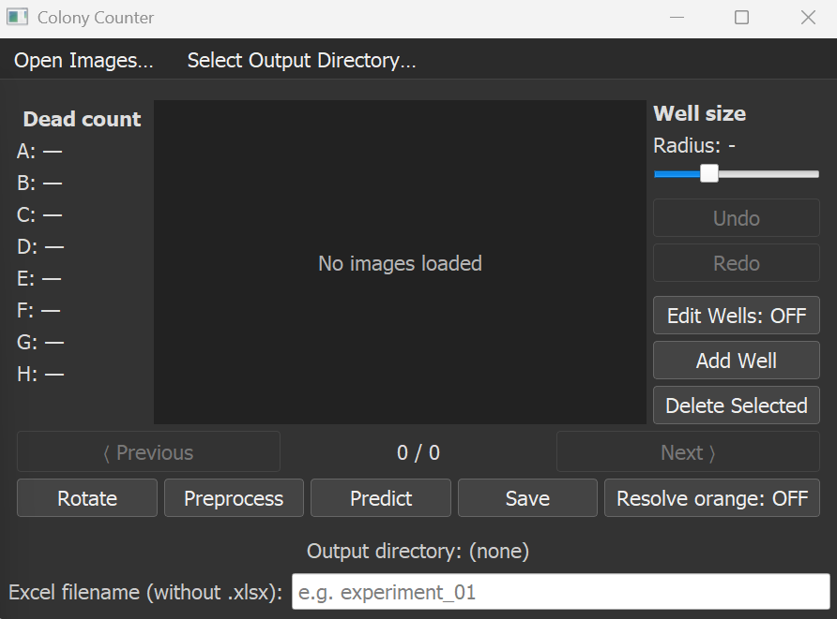
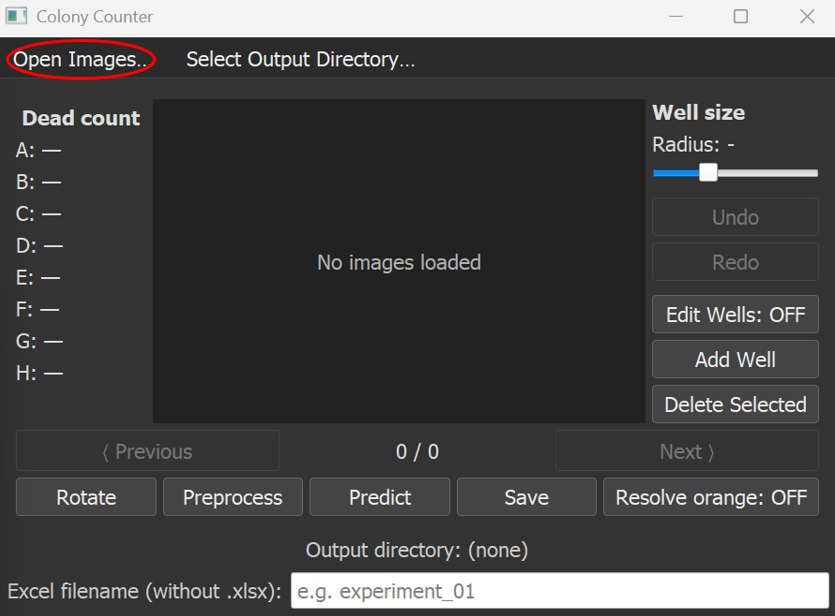
last commit?

diff --git a/README.md b/README.md
@@ -33,29 +33,80 @@ For windows: Click on ColonyCounter-windows.exe to start the download.
 1. When running for the first time the following appears. First click on "More info", then select "Run Anyway"
 ![run-windows](data/images_readme/run_windows.png)
 
-2. The following window appears. It can be resized like any other windows program
+2. The following window appears. It can be resized like any other windows program. Now click on Open Images to open the images (shocking right)
 ![colony_counter](data/images_readme/colony_counter.png)
+
+3. Select the images by simply clicking on them. To select multiple hold ctrl while selecting. Then click on "open".
+![select_images](data/images_readme/select_images.png)
+
+4. You can skip throug the images by clicking "Next" and "Previous". Importantly, images should be rotated (by clicking "Rotate") such that they appear in the same orientation as here
+![next_previous_rotate](data/images_readme/next_previous_rotate.png)
+
+5. Click on "Preprocess"
+![preprocess](data/images_readme/preprocess.png)
+
+6. The following view appears. Skip through the images ("Next" and "Previous") to identify wrongly identified wells. Here in row E some wells are not identified correctly.
+To change this, click on "Edit Wells: OFF" such that it switches to "On". 
+![switch_on](data/images_readme/switch_on.png)
+
+7. To delete wells, select the well (it turns black) and then click on "Delete Selected".
+![delete](data/images_readme/delete.png)
+
+8. To add new wells, click on "Add Well". Then click on the newly added well and move it to the correct position. 
+![add](data/images_readme/add.png)
+
+9. To Change the size of the well, select the well and use the slider.
+![slider](data/images_readme/slider.png)
+
+10. Repeat this until all wells are correct. Then click on "Predict"
+![predict](data/images_readme/predict.png)
+
+Note: all prediction steps have to be done for each image (that includes clicking on "Predict" for each image)
+
+11. Explanation Overview:
+Red = Infected (label 1), green = not infected (label 0), orange/yellow = model is unsure
+Note: The prediction does not always work as intended. Note only orange/yellow cells might be wrong!
+![predicted_view](data/images_readme/predicted_view.png)
+
+12. Now the user can automatically resolve the orange cases by clicking on "Resolve orange: OFF". This shows what the model thinks is more likely. As soon as the ambigious cases are resolved, the count per row is displayed
+Note: the orange cells reappear after clicking on that button again
+Note: when you have manually changed classifications, click on "Predict" again to undo
+![resolve](data/images_readme/resolve.png)
+
+Note: Cells that show significant reflection are detected by the model and not classified --> they have to be resolved manually, see next step
+
+13. The user can also manually change the labels. Therefore it is necessary to set "Edit Wells" into the "OFF" state! Then the state can be changed by simply clicking on the respective well.
+Note: to go back to the model's prediction click on "Predict" again
+![manually](data/images_readme/manually.png)
+
+14. Select the output directory by clicking on "Select Output Directory"
+![select_folder](data/images_readme/select_folder.png)
+
+15. Give the excel output file a name
+![excel_name](data/images_readme/excel_name.png)
+
+16. Click on save once the image has been classified correctly. This will create the excel output file. 
+Note: When the excel file is opened, the save function might not work
+![save_excel](data/images_readme/save_excel.png)
+
+17. Repeat steps 10 to 13 and step 16 for all images
+
+18. Each image will appear in a separate excel sheet
+![excel](data/images_readme/excel.png)
+
+19. Oh yeah and there is an undo and redo button. They may not work everytime you hope they would work, I didn't check all possible events - apologies here
 
 ## Repository Structure (Preliminary)
 
 ```text
 colony_counter/
 │
-├── executables/            # Standalone executables (no Python required)
-│   ├── windows/
-│   ├── macos/
-│   └── linux/
+├── data/                    
+│   └── images_readme/              # Images shown in the README file
 │
-├── src/                    # Python source code
-│   ├── inference/          # Model inference logic
-│   ├── preprocessing/     # Image loading & preprocessing
-│   ├── models/             # Trained models / checkpoints
-│   └── gui/                # GUI application code
+├── colony_counter_interface.py     # Python source code
 │
-├── data/                   # Example input images (optional)
+├── best_model_robust_aug.joblib    # Model used in interface
 │
-├── notebooks/              # Development & analysis notebooks
-│
-├── requirements.txt        # Python dependencies
-├── environment.yml         # Conda environment (optional)
+├── requirements.txt                # Python dependencies
 └── README.md
